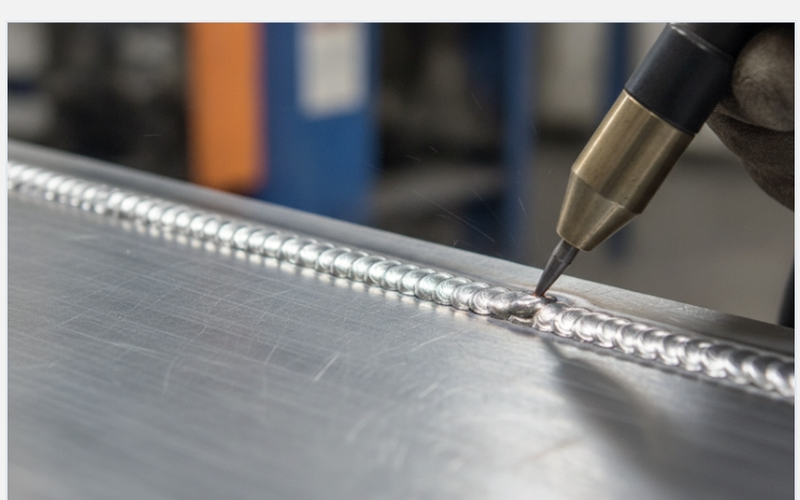
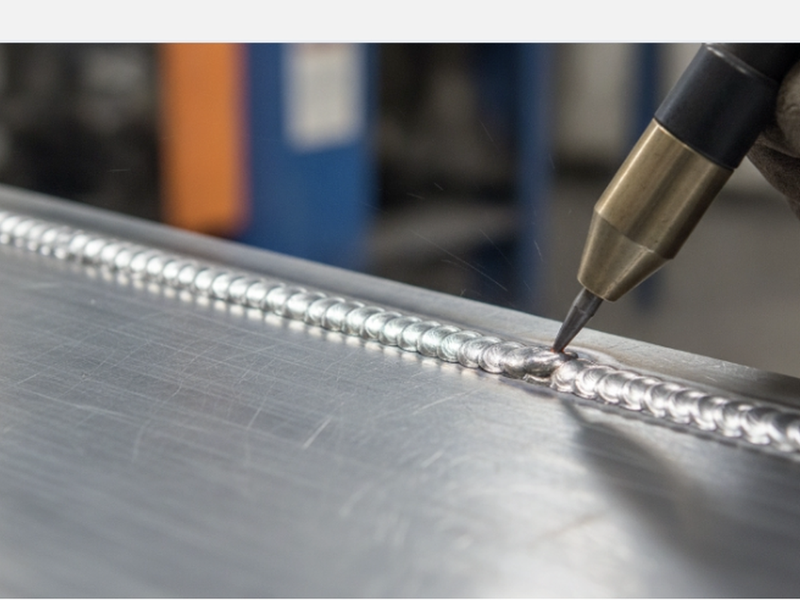
картинки

diff --git a/static/css/components/hero.css b/static/css/components/hero.css
@@ -1,31 +1,36 @@
 .hero {
   position: relative;
-  min-height: min(88svh, 44rem);
+  min-height: min(90svh, 45rem);
   display: flex;
   align-items: center;
   overflow: hidden;
+  margin-bottom: -1px;
 }
 
 .hero--image {
-  background: var(--color-surface-dim);
+  background: var(--color-bg-alt);
 }
 
 .hero__bg {
   position: absolute;
   inset: 0;
+  bottom: -2px;
   z-index: 0;
 }
 
 .hero__bg img {
   width: 100%;
-  height: 100%;
+  height: calc(100% + 2px);
+  min-height: calc(100% + 2px);
   object-fit: cover;
   object-position: center 30%;
+  transform: translateZ(0);
 }
 
 .hero__overlay {
   position: absolute;
   inset: 0;
+  bottom: -2px;
   z-index: 1;
   background: linear-gradient(
     180deg,
@@ -68,7 +73,7 @@
 
 @media (min-width: 768px) {
   .hero {
-    min-height: min(90svh, 48rem);
+    min-height: min(92svh, 49rem);
   }
 
   .hero__bg img {

diff --git a/static/css/components/portfolio.css b/static/css/components/portfolio.css
@@ -58,12 +58,16 @@
   position: relative;
   aspect-ratio: 4 / 3;
   overflow: hidden;
+  background: var(--color-bg-alt);
 }
 
 .project-card__image img {
+  position: absolute;
+  inset: 0;
   width: 100%;
   height: 100%;
   object-fit: cover;
+  object-position: center;
   transition: transform 600ms var(--ease-out);
 }
 
@@ -254,9 +258,12 @@
 }
 
 .portfolio-card__image img {
+  position: absolute;
+  inset: 0;
   width: 100%;
   height: 100%;
   object-fit: cover;
+  object-position: center;
   transition: transform 600ms var(--ease-out);
 }
 

diff --git a/pages/templates/pages/portfolio.html b/pages/templates/pages/portfolio.html
@@ -18,7 +18,7 @@
       {% for item in site.PORTFOLIO_ITEMS %}
       <article class="portfolio-card reveal" data-category="{{ item.category }}">
         <div class="portfolio-card__image">
-          <img src="{% content_image item %}" alt="{{ item.title }} — {{ item.location }} metal fabrication project" width="800" height="500" loading="lazy">
+          <img src="{% content_image item %}" alt="{{ item.title }} — {{ item.location }} metal fabrication project" width="800" height="600" loading="lazy">
           <span class="portfolio-card__badge">{{ item.category }}</span>
         </div>
         <div class="portfolio-card__body">

diff --git a/static/css/_tokens.css b/static/css/_tokens.css
@@ -54,7 +54,7 @@
   --radius-none: 0;
   --shadow-none: none;
 
-  --header-height: 4.5rem;
+  --header-height: 5rem;
   --touch-min: 2.75rem;
 
   --ease-spring: cubic-bezier(0.34, 1.56, 0.64, 1);

diff --git a/static/css/components/cards.css b/static/css/components/cards.css
@@ -1,5 +1,7 @@
 .value-grid {
   background: var(--color-bg-alt);
+  position: relative;
+  z-index: 1;
 }
 
 .value-grid__header {

diff --git a/scripts/restore_images.py b/scripts/restore_images.py
@@ -62,7 +62,7 @@ def crop_and_save(image, box, name, size):
     save_image(cropped, name)
 
 
-def center_crop_to_ratio(image, target_w, target_h):
+def center_crop_to_ratio(image, target_w, target_h, anchor='center'):
     target_ratio = target_w / target_h
     width, height = image.size
     current_ratio = width / height
@@ -72,7 +72,12 @@ def center_crop_to_ratio(image, target_w, target_h):
         box = (left, 0, left + new_w, height)
     else:
         new_h = int(width / target_ratio)
-        top = (height - new_h) // 2
+        if anchor == 'top':
+            top = 0
+        elif anchor == 'bottom':
+            top = height - new_h
+        else:
+            top = (height - new_h) // 2
         box = (0, top, width, top + new_h)
     return image.crop(box).resize((target_w, target_h), Image.Resampling.LANCZOS)
 
@@ -85,16 +90,34 @@ def restore_hero_home():
 
 
 def restore_project_frame():
-    mockup = Image.open(IMAGES_DIR / 'hero-workshop.png')
-    # Crop only the left showcase photo — not the section header or card labels.
-    crop_and_save(mockup, (18, 1040, 284, 1165), 'project-frame.png', (800, 500))
+    frame = BASE_DIR / '.tmp' / 'video-frames' / 'frame_006.jpg'
+    if not frame.exists():
+        raise FileNotFoundError(frame)
+    construction = Image.open(frame).crop((62, 708, 434, 862))
+    save_image(center_crop_to_ratio(construction.convert('RGB'), 800, 600), 'project-frame.png')
 
 
 def restore_project_tig():
     src = IMAGES_DIR / 'tig-weld.png'
     if not src.exists():
         raise FileNotFoundError(src)
-    save_image(center_crop_to_ratio(Image.open(src).convert('RGB'), 800, 500), 'project-tig.png')
+    save_image(center_crop_to_ratio(Image.open(src).convert('RGB'), 800, 600, 'top'), 'project-tig.png')
+
+
+def restore_portfolio_images():
+    frame = BASE_DIR / '.tmp' / 'video-frames' / 'frame_006.jpg'
+    if not frame.exists():
+        raise FileNotFoundError(frame)
+    f6 = Image.open(frame)
+    portfolio_sources = {
+        'portfolio-omega.png': (f6.crop((200, 708, 434, 862)), 'center'),
+        'portfolio-nexus.png': (IMAGES_DIR / 'workshop.png', 'center'),
+        'portfolio-bridge.png': (IMAGES_DIR / 'welder.png', 'top'),
+        'portfolio-residential.png': (IMAGES_DIR / 'hero-about.png', 'center'),
+    }
+    for name, (src, anchor) in portfolio_sources.items():
+        img = src if isinstance(src, Image.Image) else Image.open(src)
+        save_image(center_crop_to_ratio(img.convert('RGB'), 800, 600, anchor), name)
 
 
 def restore_workshop():
@@ -145,6 +168,7 @@ def main():
     restore_from_screenshots()
     restore_project_frame()
     restore_project_tig()
+    restore_portfolio_images()
     restore_hero_home()
 
 

diff --git a/pages/migrations/0006_update_portfolio_images.py b/pages/migrations/0006_update_portfolio_images.py
@@ -1,0 +1,24 @@
+from django.db import migrations
+
+
+def update_portfolio_images(apps, schema_editor):
+    PortfolioItem = apps.get_model('pages', 'PortfolioItem')
+    mapping = {
+        'omega-metalworks': 'portfolio-omega.png',
+        'nexus-tower': 'portfolio-nexus.png',
+        'bridge-reinforcement': 'portfolio-bridge.png',
+        'ironwood-residence': 'portfolio-residential.png',
+    }
+    for slug, static_image in mapping.items():
+        PortfolioItem.objects.filter(slug=slug).update(static_image=static_image)
+
+
+class Migration(migrations.Migration):
+
+    dependencies = [
+        ('pages', '0005_update_site_domain'),
+    ]
+
+    operations = [
+        migrations.RunPython(update_portfolio_images, migrations.RunPython.noop),
+    ]

diff --git a/pages/site_config.py b/pages/site_config.py
@@ -63,7 +63,7 @@ PORTFOLIO_ITEMS = [
         'title': 'Omega Metalworks Facility',
         'location': 'Detroit, MI',
         'detail': '24,000 SQ FT',
-        'image': 'project-frame.png',
+        'image': 'portfolio-omega.png',
     },
     {
         'slug': 'nexus-tower',
@@ -71,7 +71,7 @@ PORTFOLIO_ITEMS = [
         'title': 'Nexus Corporate Tower',
         'location': 'Chicago, IL',
         'detail': '12 STORIES',
-        'image': 'project-frame.png',
+        'image': 'portfolio-nexus.png',
     },
     {
         'slug': 'bridge-reinforcement',
@@ -79,7 +79,7 @@ PORTFOLIO_ITEMS = [
         'title': 'Bridge Support Reinforcement',
         'location': 'Pittsburgh, PA',
         'detail': 'STRUCTURAL WELDING',
-        'image': 'welder.png',
+        'image': 'portfolio-bridge.png',
     },
     {
         'slug': 'ironwood-residence',
@@ -87,7 +87,7 @@ PORTFOLIO_ITEMS = [
         'title': 'Ironwood Residence',
         'location': 'Austin, TX',
         'detail': 'CUSTOM FABRICATION',
-        'image': 'workshop.png',
+        'image': 'portfolio-residential.png',
     },
 ]
 